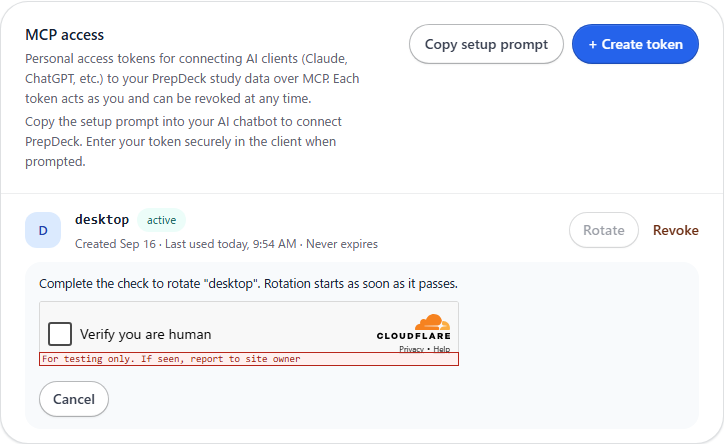
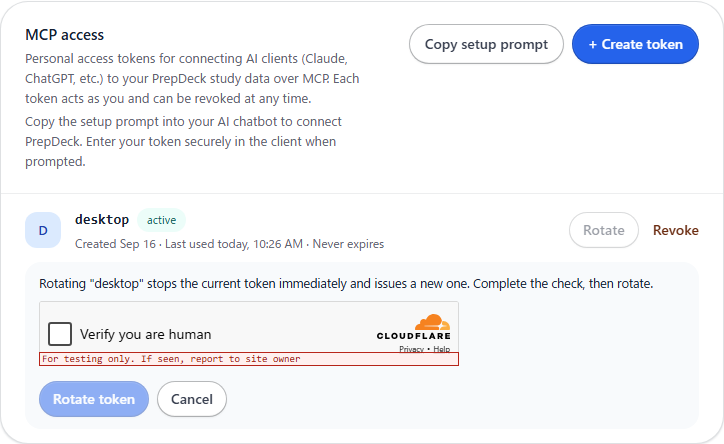
docs: screenshots of the reviewed Turnstile rotation and login notices

Changed region(s): [[0.0608, 0.6149, 0.9116, 0.6734], [0.0304, 0.8491, 0.3039, 0.9369], [0.3343, 0.527, 0.547, 0.5856]]

diff --git a/docs/screenshots/turnstile.md b/docs/screenshots/turnstile.md
@@ -19,8 +19,10 @@ behavior.
 The Google button and Create token stay disabled until the check passes. In
 Managed mode that is usually automatic, as above.
 
-Rotating a token shows the check in the token's row, and rotation starts as
-soon as it passes. This test key always asks for an interactive challenge:
+Rotating a token asks in the token's row instead of a browser confirmation.
+It says what rotating does, and **Rotate token** stays disabled until the check
+passes; nothing is rotated until it is pressed. This test key always asks for
+an interactive challenge:
 
 ![The desktop token's row asking to verify before rotating](turnstile/mcp-rotate.png)
 
@@ -28,8 +30,11 @@ When the session ends in use, the sign-in-again dialog asks for the same check:
 
 ![Your session has expired, with a passed check above Sign in again](turnstile/session-expired.png)
 
-A refused or expired check returns to the login screen with a notice. Dusk gets
+A refused or expired check returns to the login screen with a notice. Once the
+new check passes, the notice says so instead of still asking for it. When
+Siteverify itself was unavailable, or the deployment is misconfigured, the
+notice asks to try again later or to contact an admin, and stays. Dusk gets
 Turnstile's dark widget, and a card narrower than 300px its compact one; at
 390px the flexible widget still fits:
 
-<img src="turnstile/login-refused-dusk-phone.png" width="300" alt="Login at 390px in Dusk: the refusal notice above a dark Turnstile check">
+<img src="turnstile/login-refused-dusk-phone.png" width="300" alt="Login at 390px in Dusk: the refusal notice above an open Turnstile check, Sign in with Google disabled"> <img src="turnstile/login-reverified-dusk-phone.png" width="300" alt="The same screen once the check passes: Verification complete. You can sign in now.">
